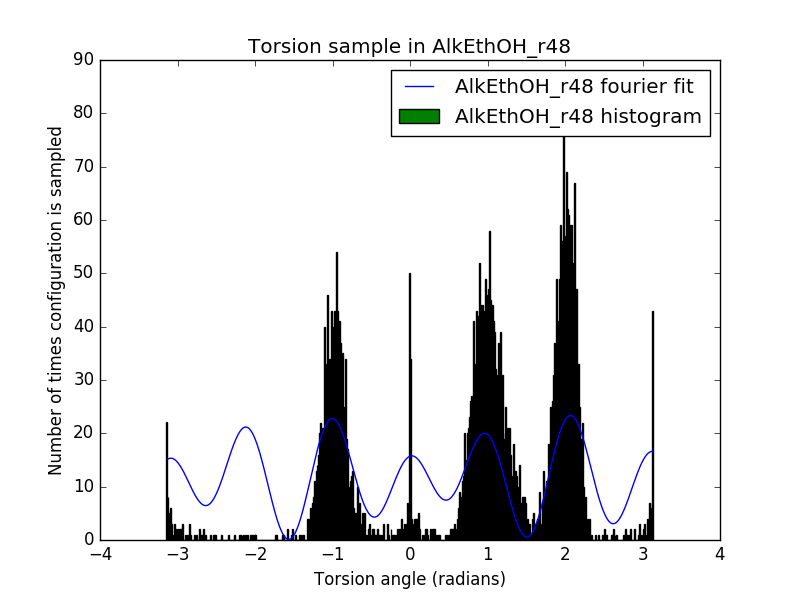
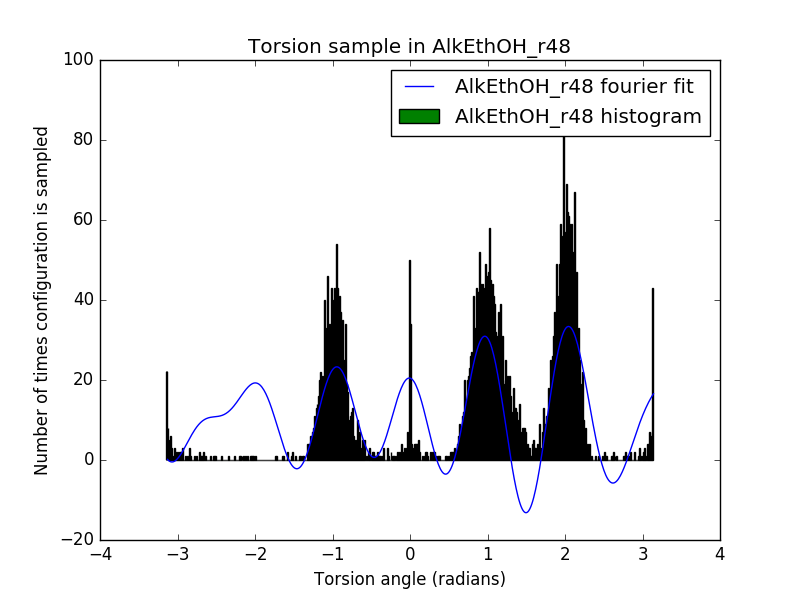
Raise amplitude

diff --git a/single-molecule-property-generation/least_squares_fit_example.py b/single-molecule-property-generation/least_squares_fit_example.py
@@ -513,7 +513,7 @@ plt.figure()
 #	if j==0.:
 #           n1[i]=5.
 
-popt, pcov = sci.curve_fit(fourier, bins1[1:], n1, [5.0,3.0,10.0]*3 , maxfev=100000)
+popt, pcov = sci.curve_fit(fourier, bins1[1:], n1, [10.0,3.0,10.0]*3 , maxfev=100000)
 plt.plot(bins1[1:],fourier(bins1[1:],*popt),label='AlkEthOH_r48 fourier fit')
 plt.ylabel('Number of times configuration is sampled')
 plt.xlabel('Torsion angle (radians)')
